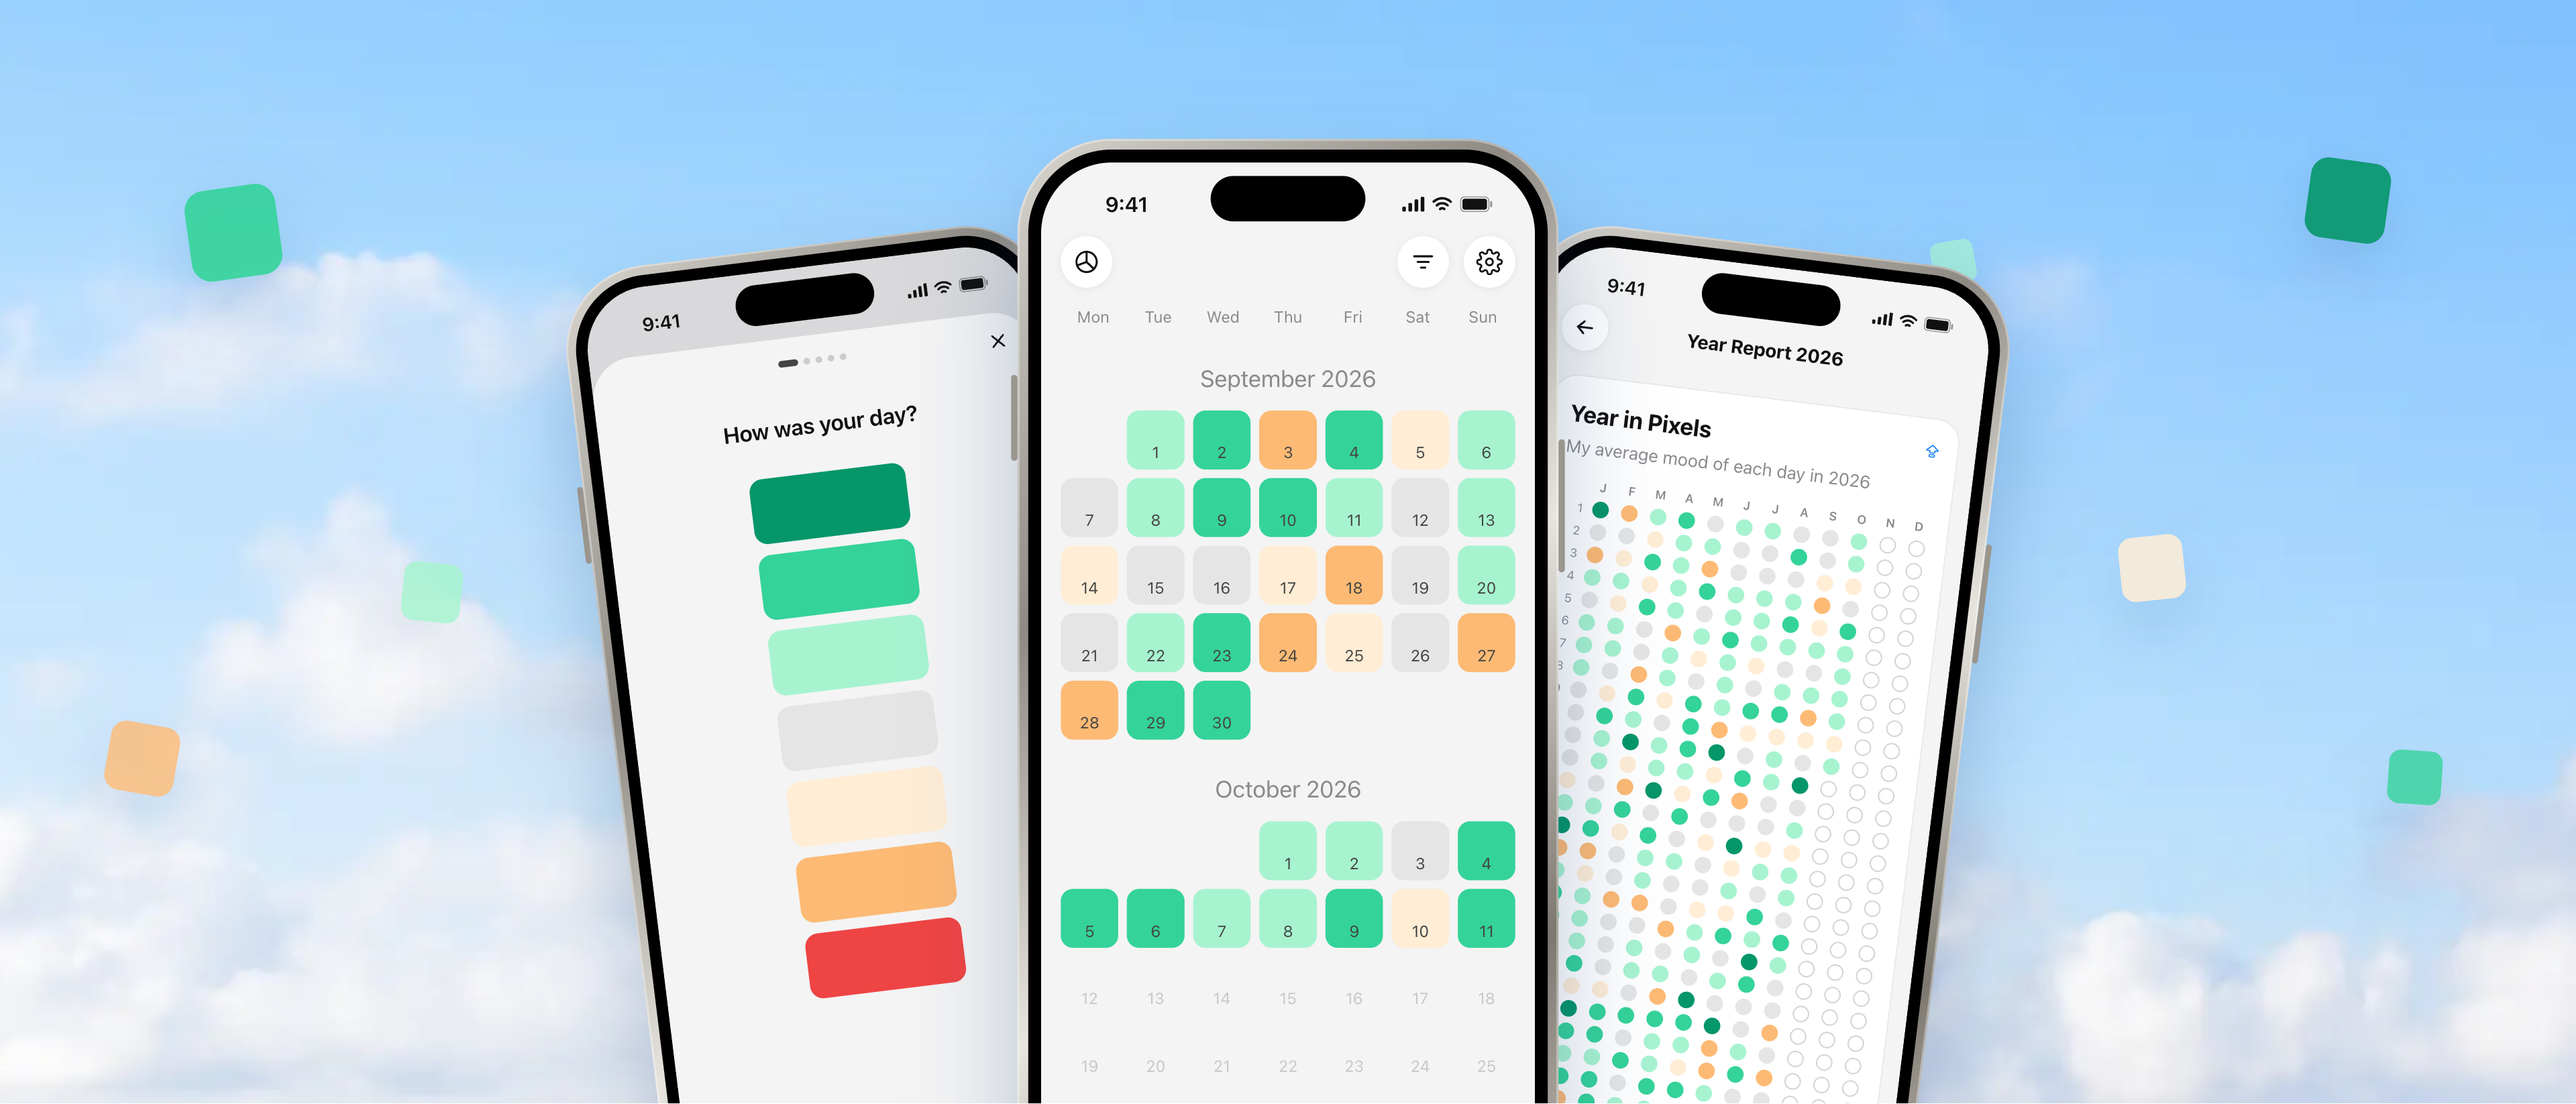
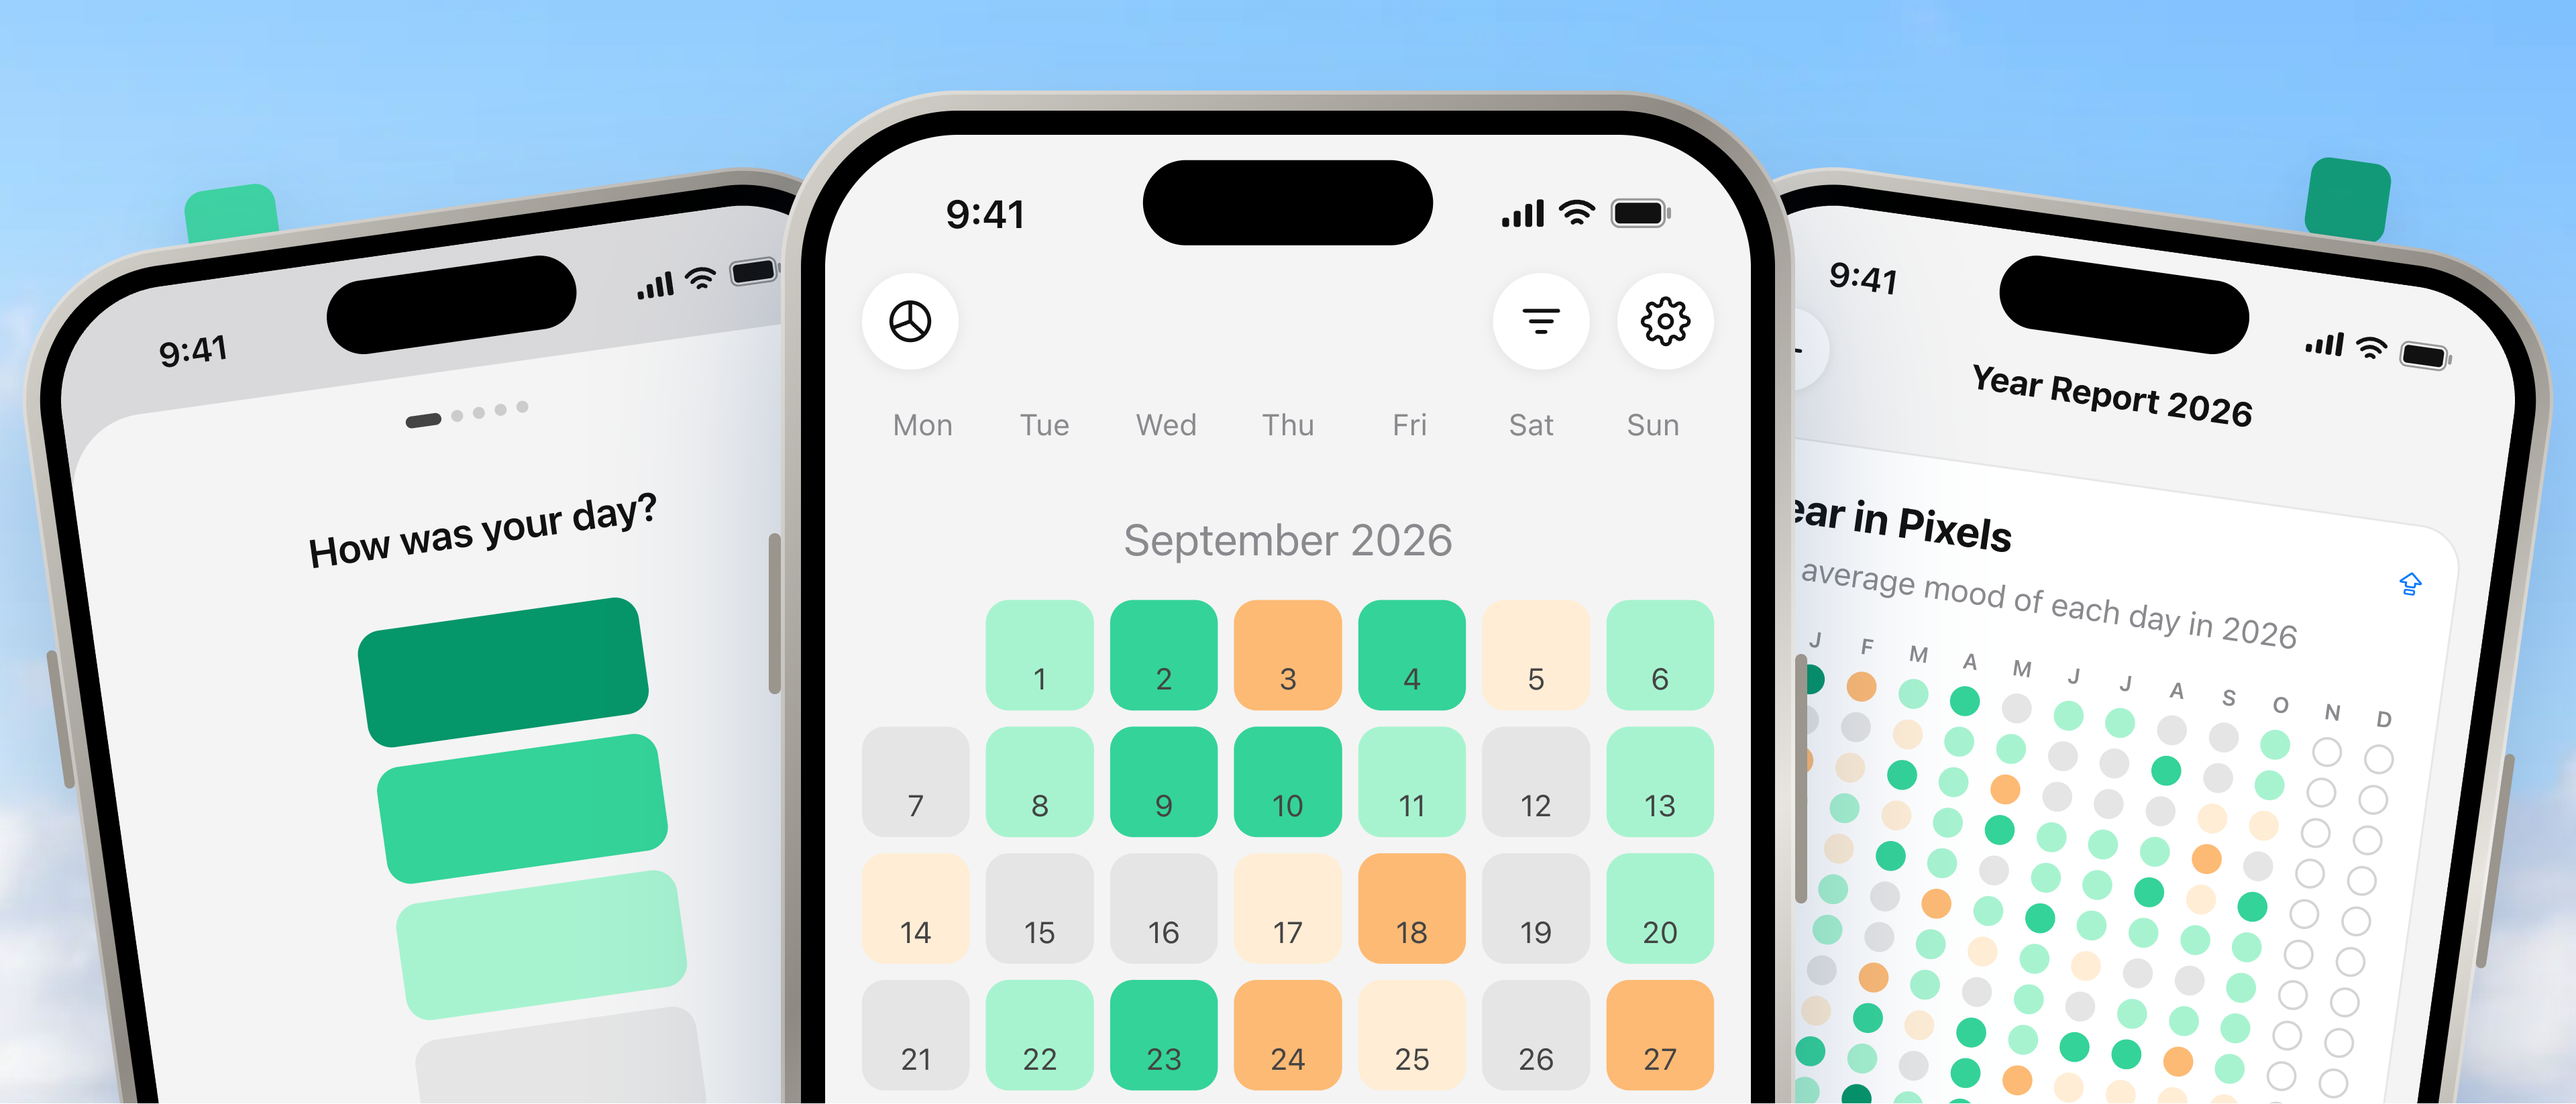
docs(store-screenshots): make phones larger in header and feature graphic

diff --git a/docs/store-screenshots/index.html b/docs/store-screenshots/index.html
@@ -209,9 +209,9 @@ radial-gradient(1.4px 1.4px at 18% 10%,#fff,transparent),radial-gradient(1px 1px
 <div class="cvset">
  <div><div class="cv header" data-cv="header">
   <i class="px" style="left:70px;top:70px;width:34px;height:34px;background:#34d399;opacity:0.9;transform:rotate(-8deg)"></i><i class="px" style="left:150px;top:210px;width:22px;height:22px;background:#a7f3d0;opacity:0.85;transform:rotate(6deg)"></i><i class="px" style="left:40px;top:270px;width:26px;height:26px;background:#fdba74;opacity:0.8;transform:rotate(10deg)"></i><i class="px" style="left:230px;top:110px;width:18px;height:18px;background:#059669;opacity:0.7;transform:rotate(-4deg)"></i><i class="px" style="left:860px;top:60px;width:30px;height:30px;background:#059669;opacity:0.9;transform:rotate(8deg)"></i><i class="px" style="left:790px;top:200px;width:24px;height:24px;background:#ffedd5;opacity:0.85;transform:rotate(-6deg)"></i><i class="px" style="left:890px;top:280px;width:20px;height:20px;background:#34d399;opacity:0.8;transform:rotate(4deg)"></i><i class="px" style="left:720px;top:90px;width:16px;height:16px;background:#a7f3d0;opacity:0.7;transform:rotate(-10deg)"></i>
-  <div class="phA" style="top:92px;left:31%;transform:translateX(-50%) rotate(-7deg) scale(.72);z-index:1;"><div class="bz"><div class="sc" data-app="mood" data-args=''></div></div></div>
-  <div class="phA" style="top:92px;left:69%;transform:translateX(-50%) rotate(7deg) scale(.72);z-index:1;"><div class="bz"><div class="sc" data-app="year" data-args=''></div></div></div>
-  <div class="phA" style="top:52px;transform:translateX(-50%) scale(.8);z-index:2;"><div class="bz"><div class="sc" data-app="calendar" data-args=''></div></div></div>
+  <div class="phA" style="top:78px;left:17%;transform:translateX(-50%) rotate(-8deg) scale(1.3);z-index:1;"><div class="bz"><div class="sc" data-app="mood" data-args=''></div></div></div>
+  <div class="phA" style="top:78px;left:83%;transform:translateX(-50%) rotate(8deg) scale(1.3);z-index:1;"><div class="bz"><div class="sc" data-app="year" data-args=''></div></div></div>
+  <div class="phA" style="top:34px;transform:translateX(-50%) scale(1.5);z-index:2;"><div class="bz"><div class="sc" data-app="calendar" data-args=''></div></div></div>
  </div><div class="lab"><b>Product page header</b> 21:9, 3840x1646. No text: app icon, name and Get button sit right below. Calendar in front, mood logger and year in pixels behind, phones run off the bottom edge.</div></div>
  <div><div class="cv search" data-cv="search">
   <h4 style="top:38px;font-size:50px">Mood Journal</h4>
@@ -224,11 +224,11 @@ radial-gradient(1.4px 1.4px at 18% 10%,#fff,transparent),radial-gradient(1px 1px
   <i class="px" style="left:40px;top:40px;width:26px;height:26px;background:#34d399;opacity:0.85;transform:rotate(-8deg)"></i><i class="px" style="left:470px;top:60px;width:18px;height:18px;background:#a7f3d0;opacity:0.8;transform:rotate(6deg)"></i><i class="px" style="left:60px;top:420px;width:22px;height:22px;background:#fdba74;opacity:0.8;transform:rotate(10deg)"></i><i class="px" style="left:420px;top:400px;width:16px;height:16px;background:#059669;opacity:0.75;transform:rotate(-4deg)"></i>
   <div class="fk">Mood Journal</div>
   <h4 class="fh">Understand what makes you feel that way.</h4>
-  <div class="phA" style="top:70px;left:auto;right:170px;transform:rotate(-6deg) scale(.86);z-index:2;"><div class="bz"><div class="sc" data-app="calendar" data-args=''></div></div></div>
-  <div class="phA" style="top:120px;left:auto;right:-40px;transform:rotate(6deg) scale(.8);z-index:1;"><div class="bz"><div class="sc" data-app="year" data-args=''></div></div></div>
+  <div class="phA" style="top:40px;left:auto;right:200px;transform:rotate(-6deg) scale(1.35);z-index:2;"><div class="bz"><div class="sc" data-app="calendar" data-args=''></div></div></div>
+  <div class="phA" style="top:96px;left:auto;right:-150px;transform:rotate(7deg) scale(1.25);z-index:1;"><div class="bz"><div class="sc" data-app="year" data-args=''></div></div></div>
  </div><div class="lab"><b>Google Play feature graphic</b> 1024x500 (rendered 2x, downsampled). Mood Journal kicker + proof headline left, calendar and year in pixels right.</div></div>
 </div></main>
-<script src="https://unpkg.com/lucide@0.460.0/dist/umd/lucide.min.js"></script><script src="emotion-icons.js?v=1792505053"></script><script src="appscreens.js?v=1792505053"></script><script>
+<script src="https://unpkg.com/lucide@0.460.0/dist/umd/lucide.min.js"></script><script src="emotion-icons.js?v=1792505961"></script><script src="appscreens.js?v=1792505961"></script><script>
 document.head.insertAdjacentHTML('beforeend','<style>'+APP.css+'</style>');
 document.querySelectorAll('[data-app]').forEach(el=>{window.PIXY_OS=el.closest('.android-set')?'android':'ios';const a=(el.dataset.args||'').split(',').filter(Boolean);el.innerHTML=APP.render(el.dataset.app,a[0]||undefined,a[1]==='dark')});window.PIXY_OS='ios';
 document.querySelectorAll('[data-card]').forEach(el=>el.innerHTML='<div class="ps">'+APP.card(el.dataset.card)+'</div>');

diff --git a/docs/store-screenshots/build.py b/docs/store-screenshots/build.py
@@ -292,9 +292,9 @@ CREATIVE = f"""
 <div class="cvset">
  <div><div class="cv header" data-cv="header">
   {pixels(PX)}
-  {phone('mood', 92, 'left:31%;transform:translateX(-50%) rotate(-7deg) scale(.72);z-index:1;')}
-  {phone('year', 92, 'left:69%;transform:translateX(-50%) rotate(7deg) scale(.72);z-index:1;')}
-  {phone('calendar', 52, 'transform:translateX(-50%) scale(.8);z-index:2;')}
+  {phone('mood', 78, 'left:17%;transform:translateX(-50%) rotate(-8deg) scale(1.3);z-index:1;')}
+  {phone('year', 78, 'left:83%;transform:translateX(-50%) rotate(8deg) scale(1.3);z-index:1;')}
+  {phone('calendar', 34, 'transform:translateX(-50%) scale(1.5);z-index:2;')}
  </div><div class="lab"><b>Product page header</b> 21:9, 3840x1646. No text: app icon, name and Get button sit right below. Calendar in front, mood logger and year in pixels behind, phones run off the bottom edge.</div></div>
  <div><div class="cv search" data-cv="search">
   <h4 style="top:38px;font-size:50px">Mood Journal</h4>
@@ -307,8 +307,8 @@ CREATIVE = f"""
   {pixels(FPX)}
   <div class="fk">Mood Journal</div>
   <h4 class="fh">Understand what makes you feel that way.</h4>
-  {phone('calendar', 70, 'left:auto;right:170px;transform:rotate(-6deg) scale(.86);z-index:2;')}
-  {phone('year', 120, 'left:auto;right:-40px;transform:rotate(6deg) scale(.8);z-index:1;')}
+  {phone('calendar', 40, 'left:auto;right:200px;transform:rotate(-6deg) scale(1.35);z-index:2;')}
+  {phone('year', 96, 'left:auto;right:-150px;transform:rotate(7deg) scale(1.25);z-index:1;')}
  </div><div class="lab"><b>Google Play feature graphic</b> 1024x500 (rendered 2x, downsampled). Mood Journal kicker + proof headline left, calendar and year in pixels right.</div></div>
 </div>"""
 body = body.replace('Google Play User', 'Pixy user')
